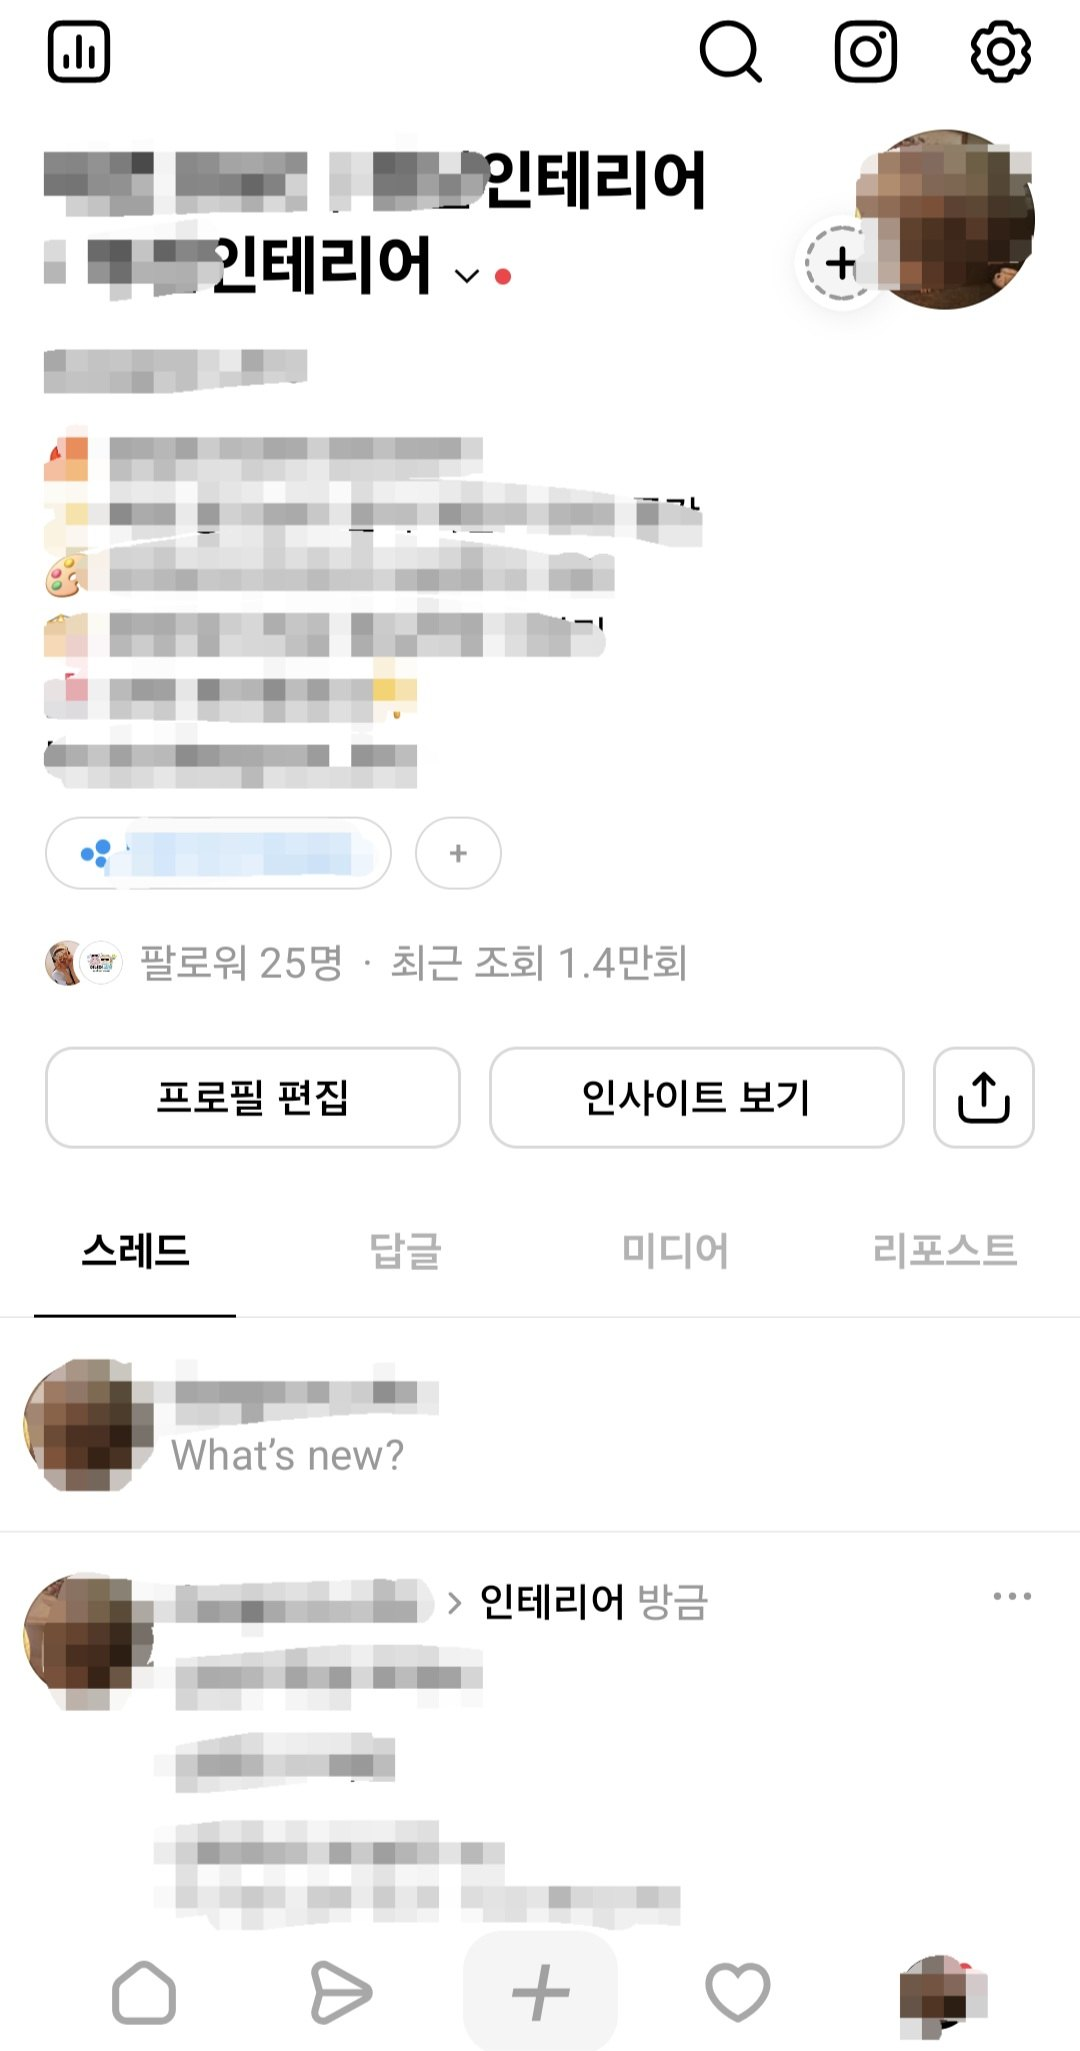
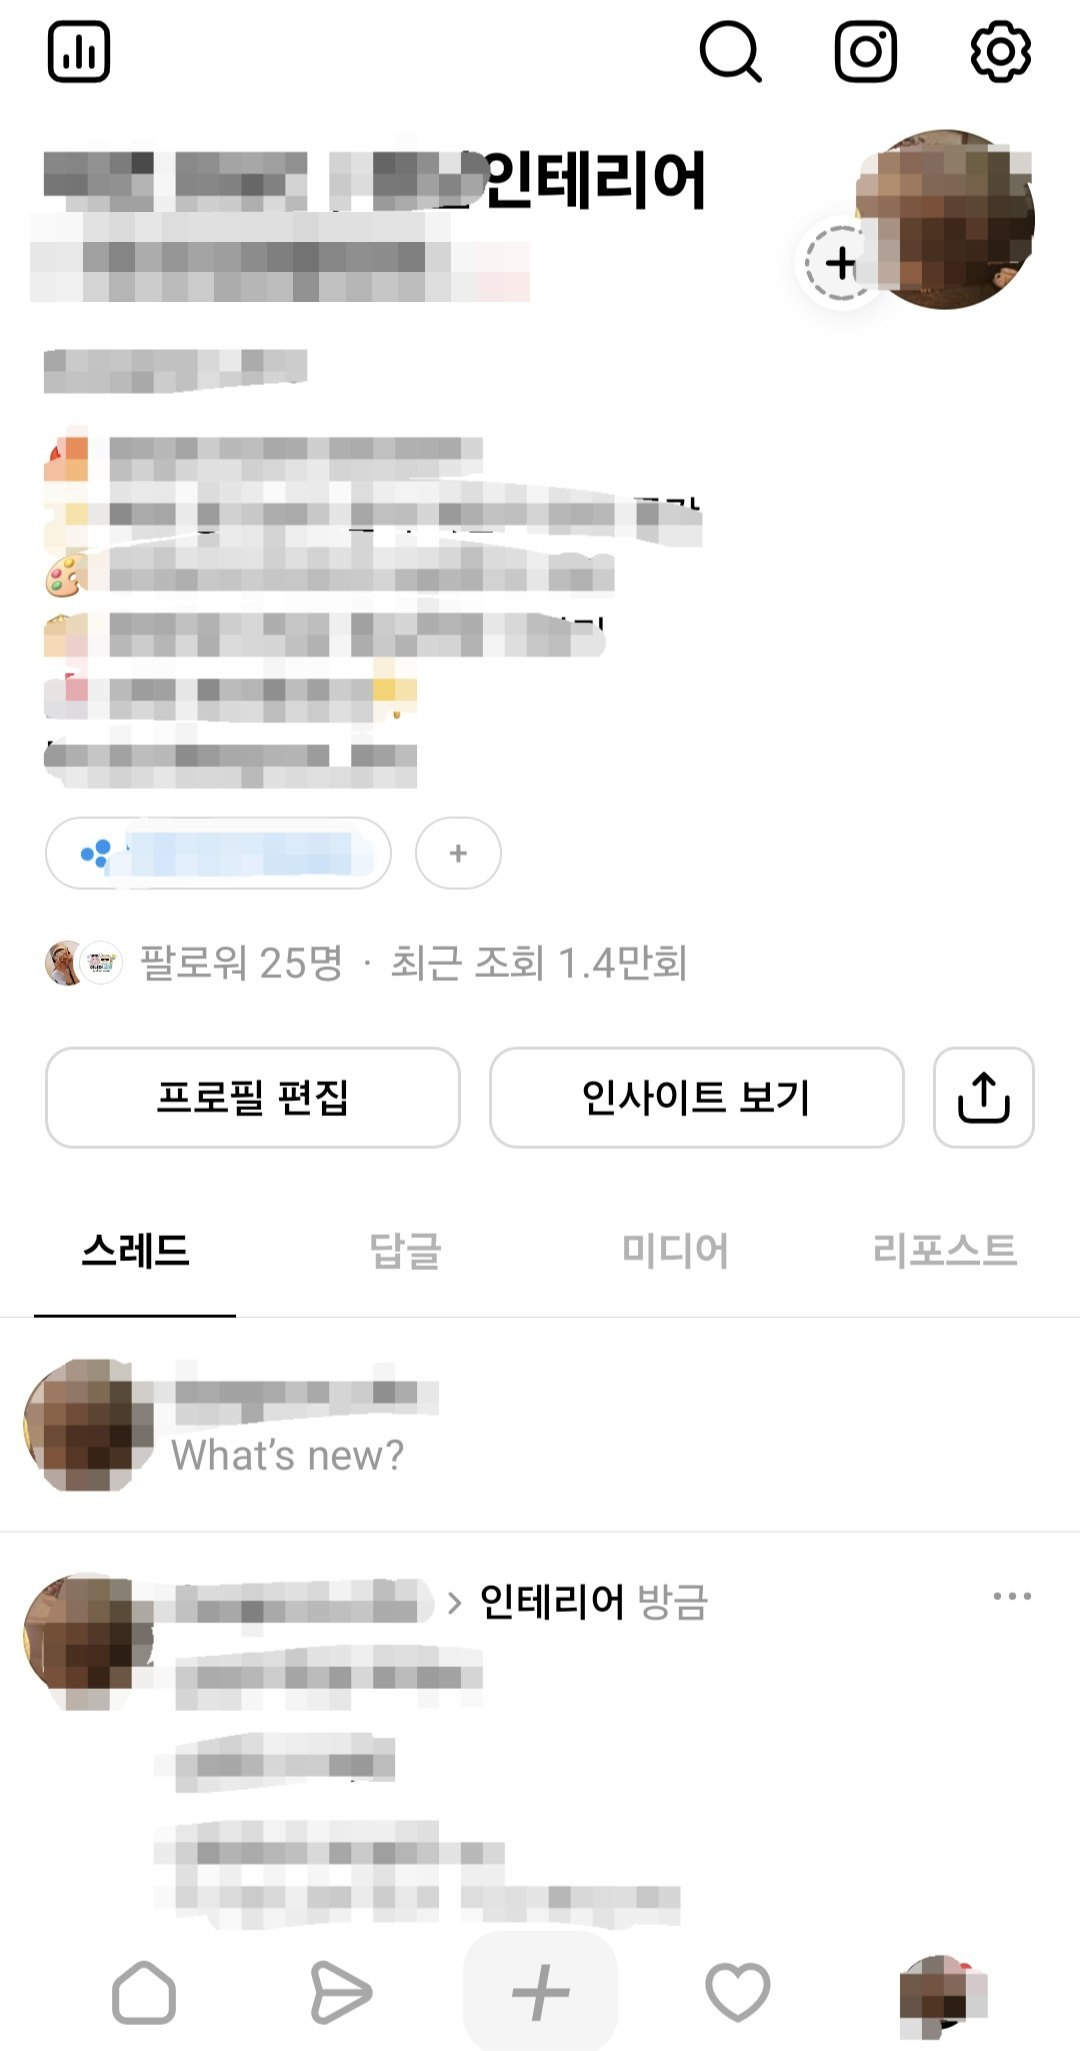
포트폴리오 인테리어 7일 후기: 대행 전 사진 아이디 줄 모자이크 (이미 올라간 사진 한 번만 교체)
Claude-Session: https://claude.ai/code/session_01D3XvtKq1Fx5BJJzuEeiaND

Changed region(s): [[0.0306, 0.0936, 0.4278, 0.156], [0.4583, 0.1248, 0.4889, 0.156]]

diff --git a/portfolio.js b/portfolio.js
@@ -7,6 +7,7 @@
          없으면 data/ 폴더 (개발용) */
 const path = require('path');
 const fs = require('fs');
+const crypto = require('crypto');
 const express = require('express');
 
 const CATS = {
@@ -110,6 +111,10 @@ function makePgStore(query) {
     async markSeed(key, id) {
       await query(`INSERT INTO pf_seeds (key, post_id) VALUES ($1, $2) ON CONFLICT (key) DO NOTHING`, [key, id]);
     },
+    async replaceImage(sha, mime, buf) {
+      const r = await query(`UPDATE pf_images SET data = $1, mime = $2, size = $3 WHERE encode(sha256(data), 'hex') = $4`, [buf, mime, buf.length, sha]);
+      return r.rowCount;
+    },
     async list(onlyPublished) {
       const { rows } = await query(`SELECT * FROM pf_posts ${onlyPublished ? 'WHERE published' : ''} ORDER BY sort DESC, created_at DESC LIMIT 300`);
       return rows.map(row);
@@ -169,6 +174,14 @@ function makeFileStore(dir) {
     async init() {},
     async hasSeed(key) { return (read().seeds || []).includes(key); },
     async markSeed(key) { const d = read(); d.seeds = (d.seeds || []).concat(key); write(d); },
+    async replaceImage(sha, mime, buf) {
+      const d = read(); let n = 0;
+      d.images.forEach((im) => {
+        const f = path.join(imgDir, im.id);
+        try { if (crypto.createHash('sha256').update(fs.readFileSync(f)).digest('hex') === sha) { fs.writeFileSync(f, buf); im.mime = mime; n++; } } catch (e) { /* 없음 */ }
+      });
+      write(d); return n;
+    },
     async list(onlyPublished) { return sorted(read().posts.filter((p) => !onlyPublished || p.published)); },
     async get(id) { return read().posts.find((p) => p.id === String(id)) || null; },
     async create(p) {
@@ -202,6 +215,23 @@ function makeFileStore(dir) {
 async function importSeeds(store, dir) {
   let files = [];
   try { files = fs.readdirSync(dir).filter((f) => f.endsWith('.json')).sort(); } catch (e) { return; }
+  // 이미 들어간 사진 바꾸기 (*.fix.json: { key, replace: [{ sha256: 옛 사진, file: 새 사진 }] }) — 한 번만
+  for (const f of files.filter((x) => x.endsWith('.fix.json'))) {
+    try {
+      const fx = JSON.parse(fs.readFileSync(path.join(dir, f), 'utf8'));
+      const key = clip(fx.key || f, 80);
+      if (await store.hasSeed(key)) continue;
+      let n = 0;
+      for (const r of fx.replace || []) {
+        const buf = fs.readFileSync(path.join(dir, path.basename(r.file)));
+        const mime = sniff(buf);
+        if (mime && /^[0-9a-f]{64}$/.test(r.sha256)) n += await store.replaceImage(r.sha256, mime, buf);
+      }
+      await store.markSeed(key, null);
+      console.log(`[pf seed] ${key} → 사진 ${n}장 바꿈`);
+    } catch (e) { console.error('[pf seed fix]', f, e.message); }
+  }
+  files = files.filter((x) => !x.endsWith('.fix.json'));
   for (const f of files) {
     try {
       const s = JSON.parse(fs.readFileSync(path.join(dir, f), 'utf8'));
